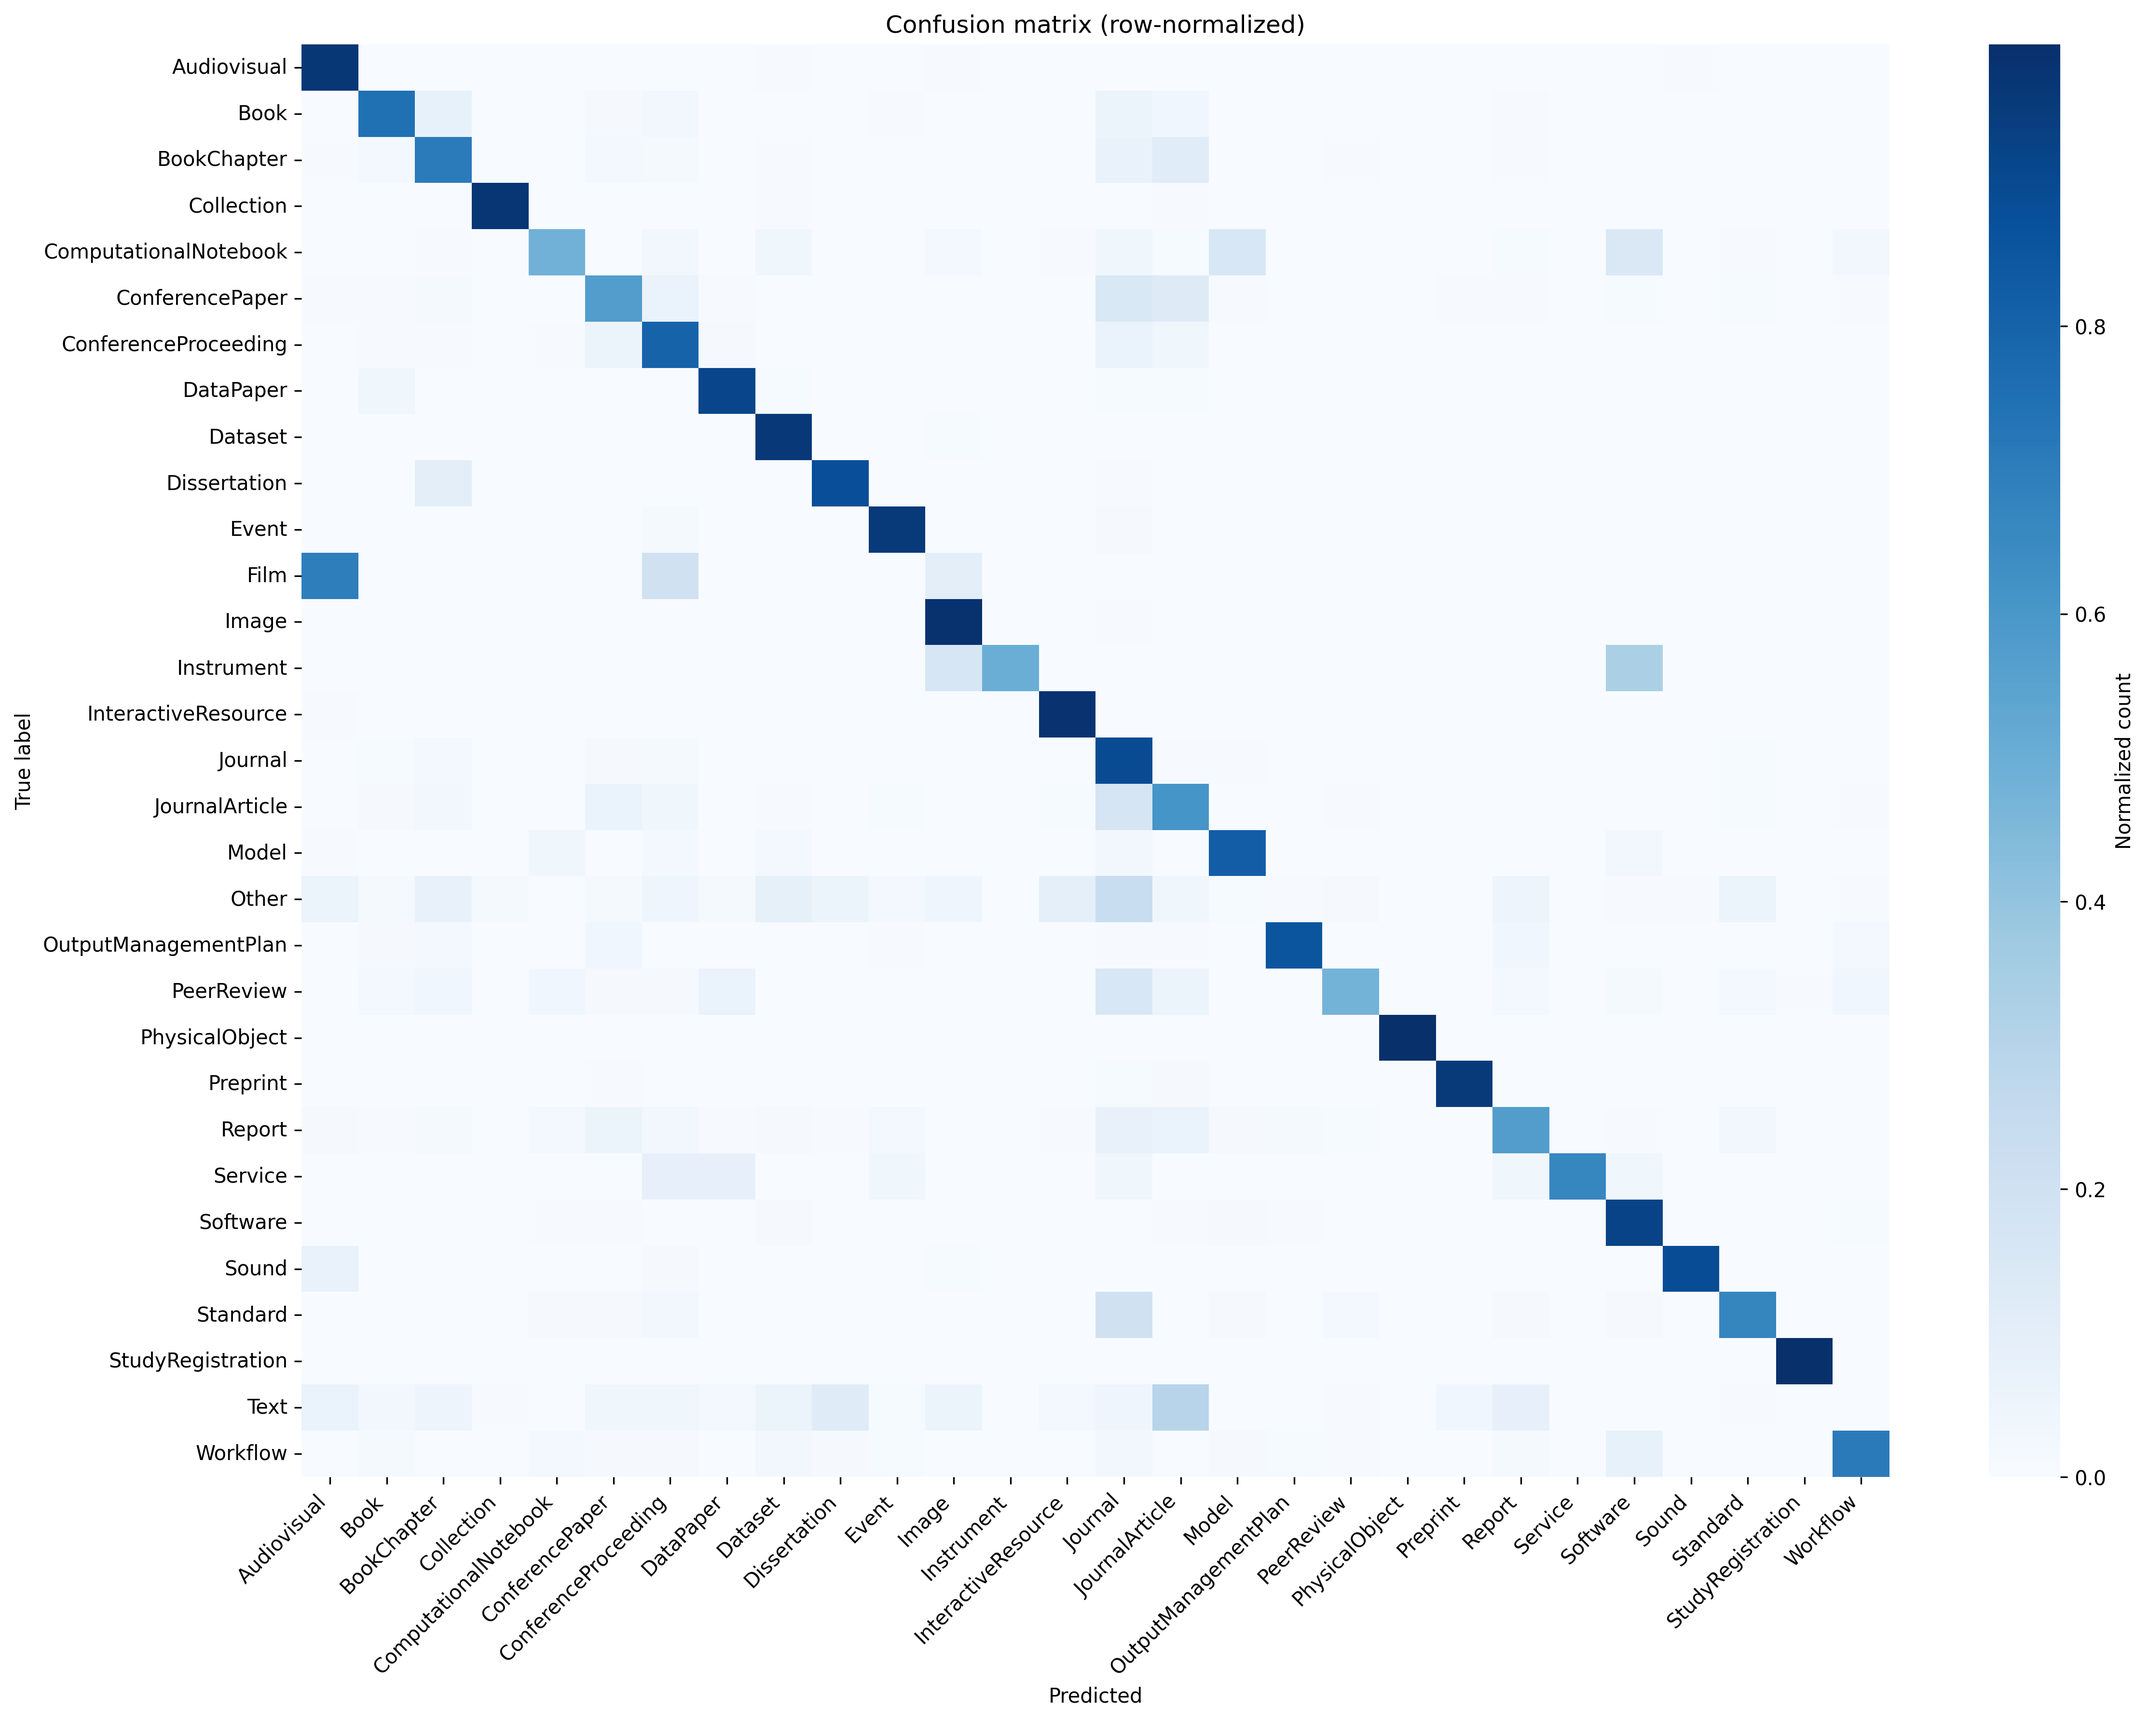
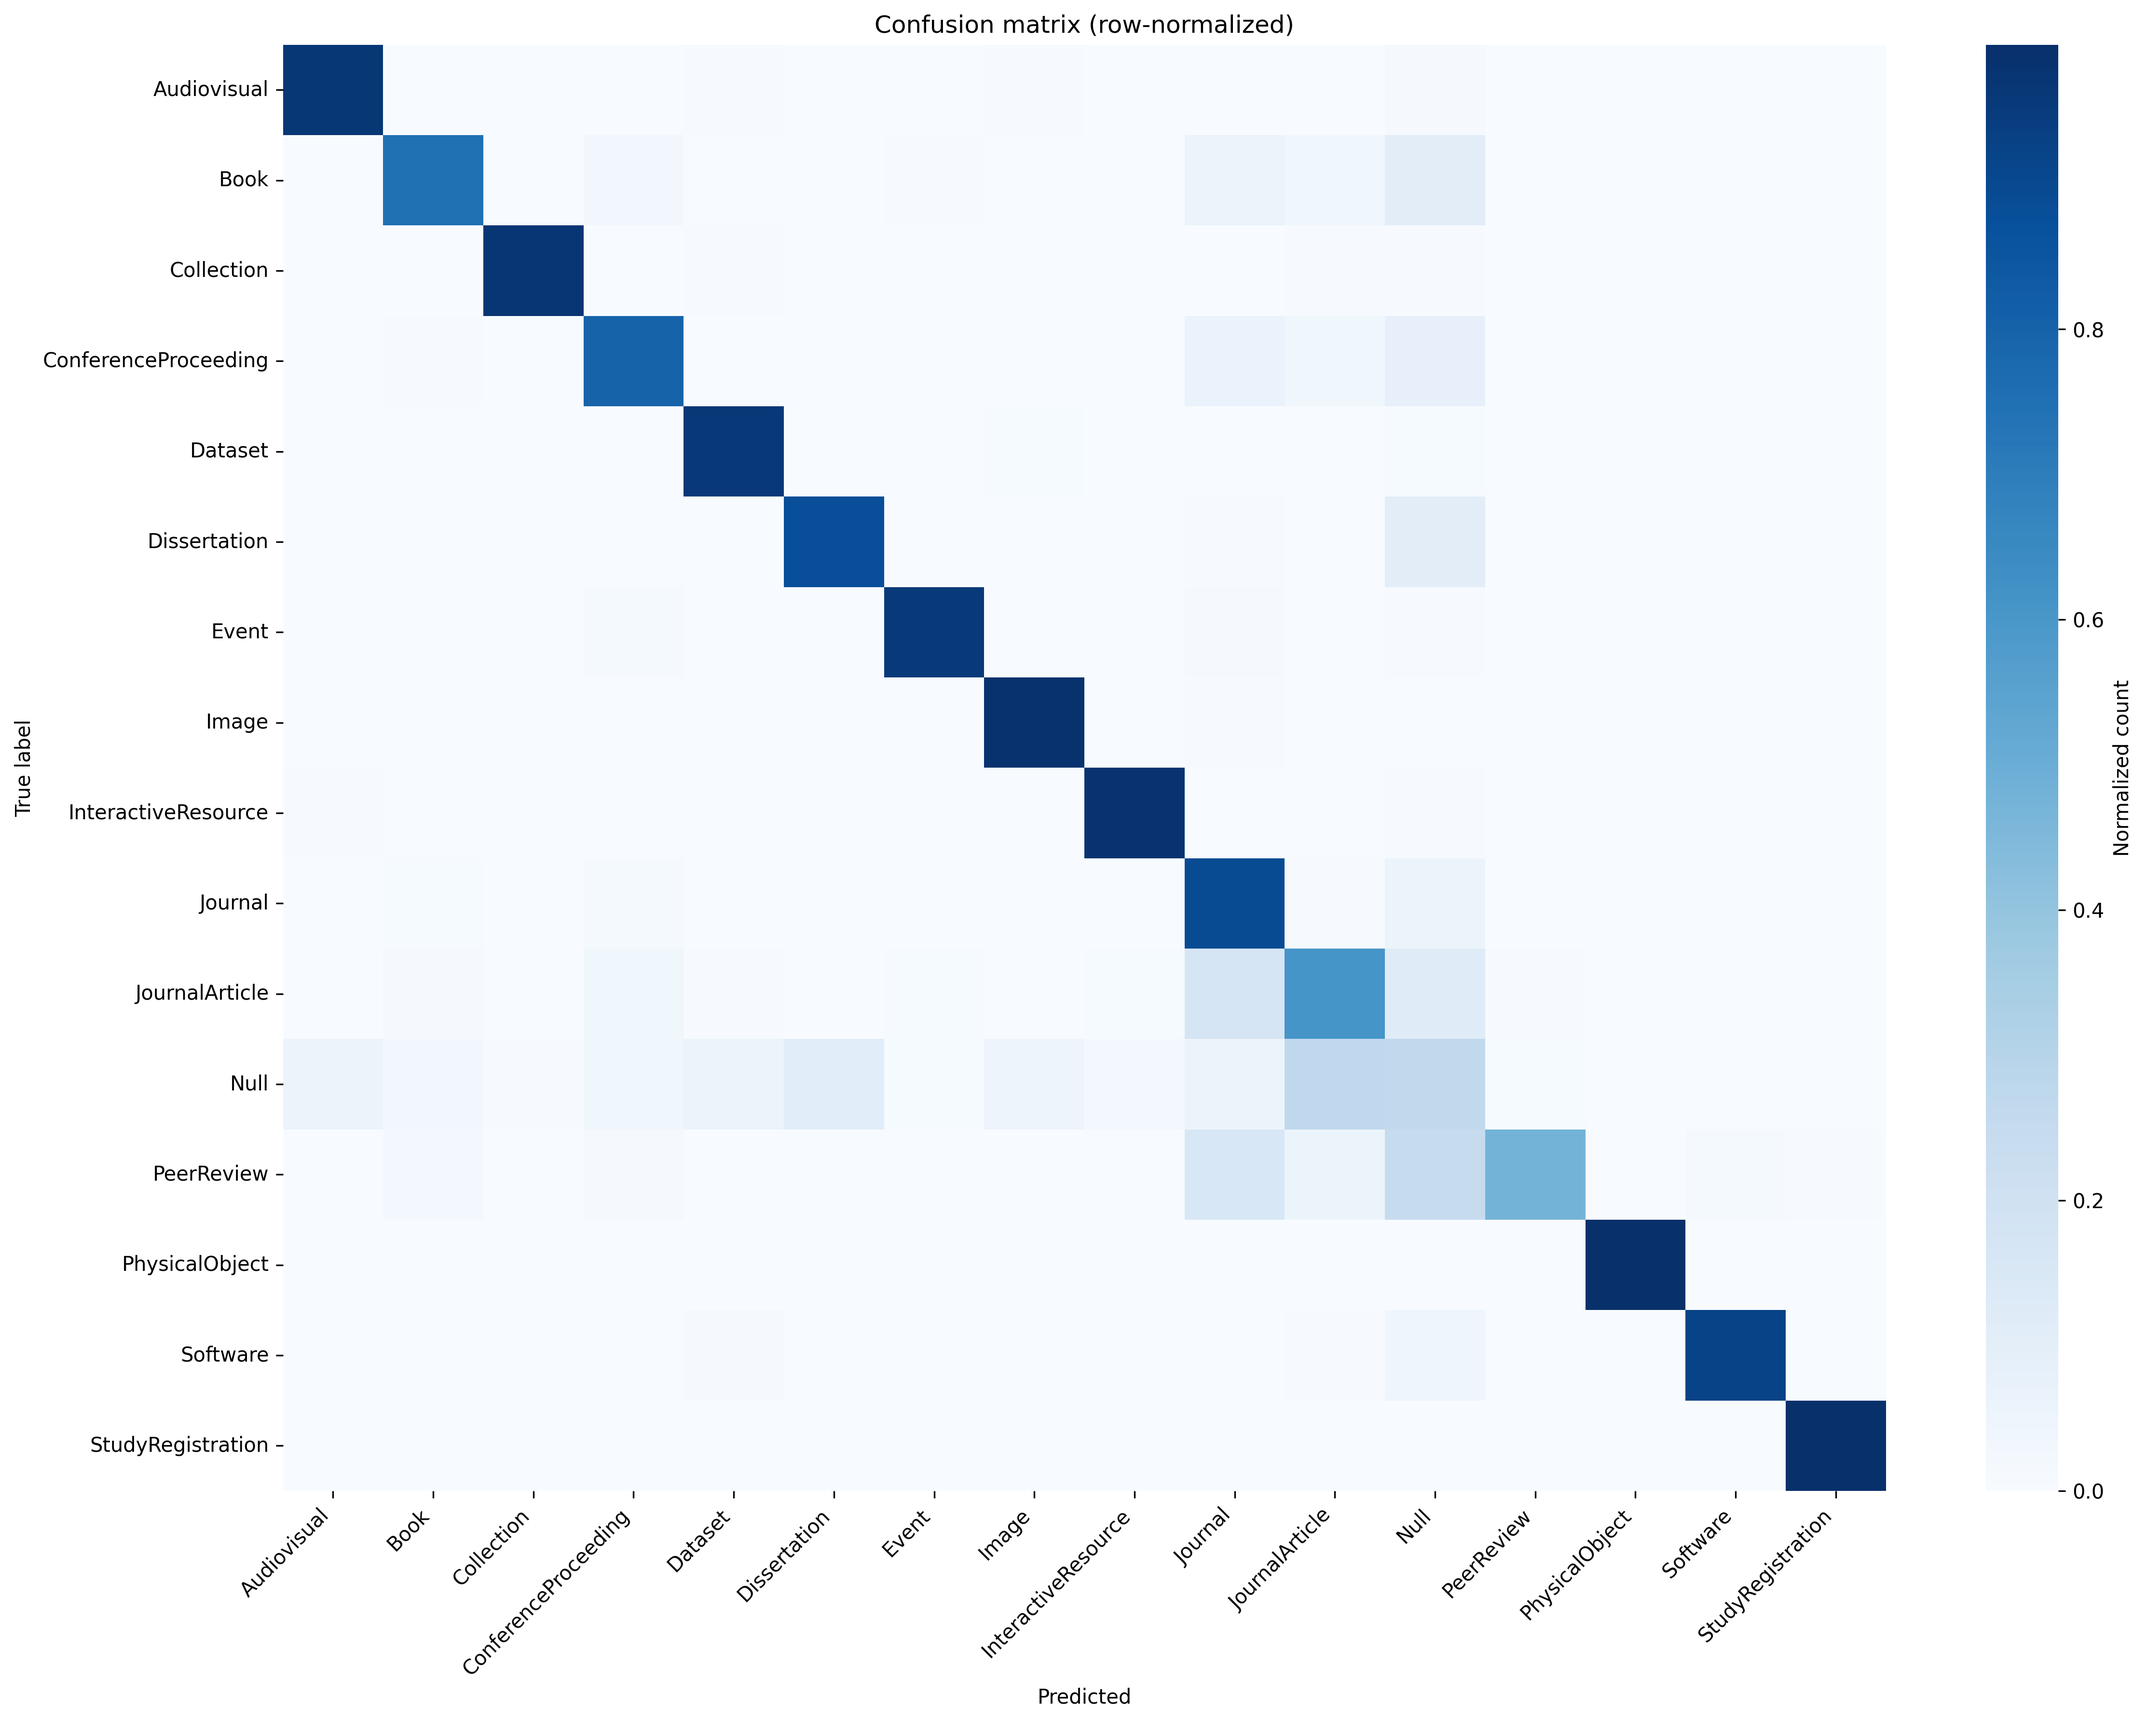
add null category

diff --git a/lm_classify_next_token/create_heatmap.py b/lm_classify_next_token/create_heatmap.py
@@ -6,6 +6,38 @@ import pandas as pd
 import sys
 import os
 
+def preprocess_categories(data):
+    """
+    Preprocesses categories to only include valid ones, mapping others to 'Null'.
+    This function can be easily removed to restore original behavior.
+    """
+    valid_categories = {
+        'Audiovisual', 'Book', 'Collection', 'ConferenceProceeding', 'Dataset', 
+        'Dissertation', 'Event', 'Image', 'InteractiveResource', 'Journal', 
+        'JournalArticle', 'PeerReview', 'PhysicalObject', 'Software', 
+        'StudyRegistration', 'Null'
+    }
+    
+    processed_data = {}
+    
+    for true_label, predictions in data.items():
+        # Map true label to valid category or Null
+        processed_true = true_label if true_label in valid_categories else 'Null'
+        
+        if processed_true not in processed_data:
+            processed_data[processed_true] = {}
+        
+        for pred_label, count in predictions.items():
+            # Map predicted label to valid category or Null
+            processed_pred = pred_label if pred_label in valid_categories else 'Null'
+            
+            if processed_pred not in processed_data[processed_true]:
+                processed_data[processed_true][processed_pred] = 0
+            
+            processed_data[processed_true][processed_pred] += count
+    
+    return processed_data
+
 if len(sys.argv) != 2:
     print("Usage: python create_heatmap.py <input_json_file>")
     sys.exit(1)
@@ -17,6 +49,9 @@ base_name = os.path.splitext(os.path.basename(input_file))[0]
 # Load the accuracy data
 with open(input_file, 'r') as f:
     data = json.load(f)
+
+# Preprocess categories to include only valid ones
+data = preprocess_categories(data)
 
 # Convert to DataFrame for easier manipulation
 rows = []
